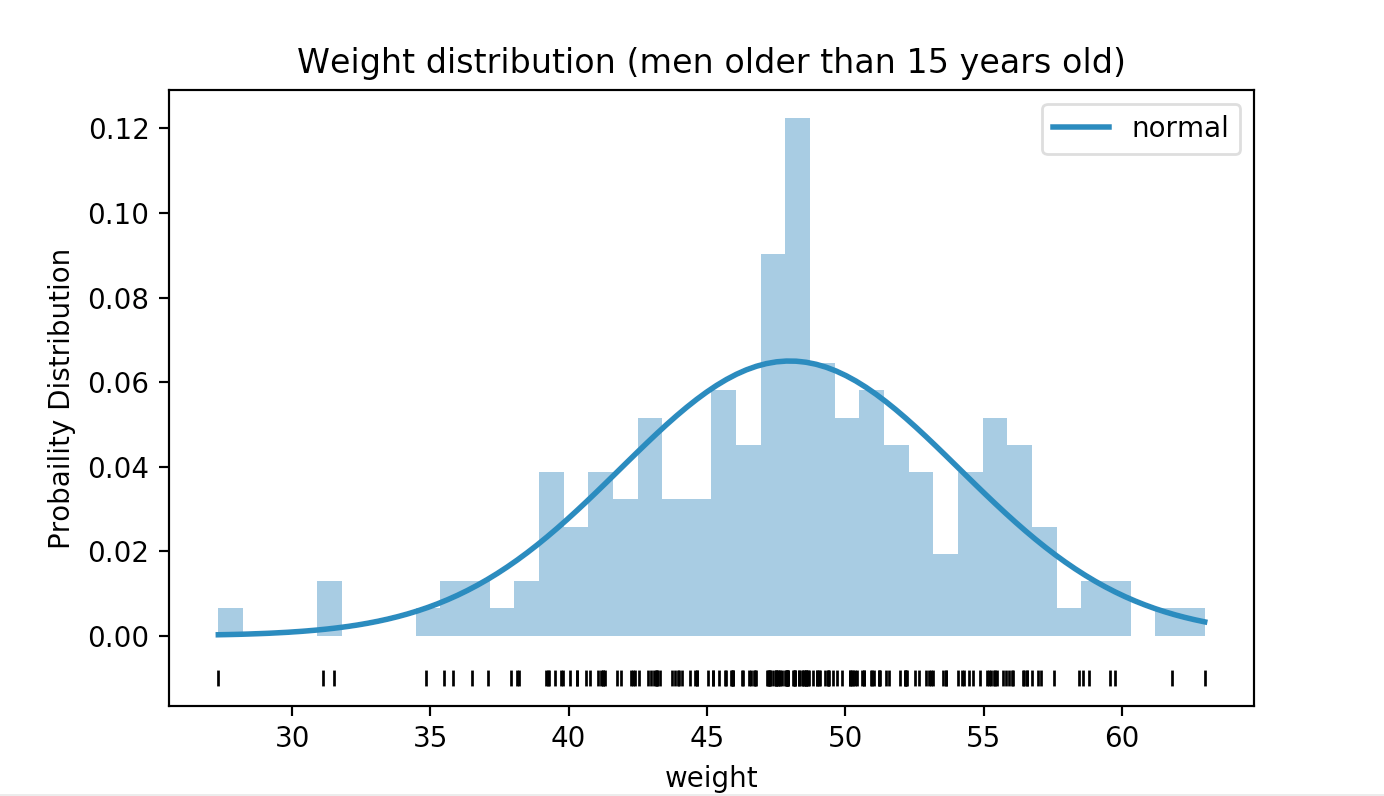
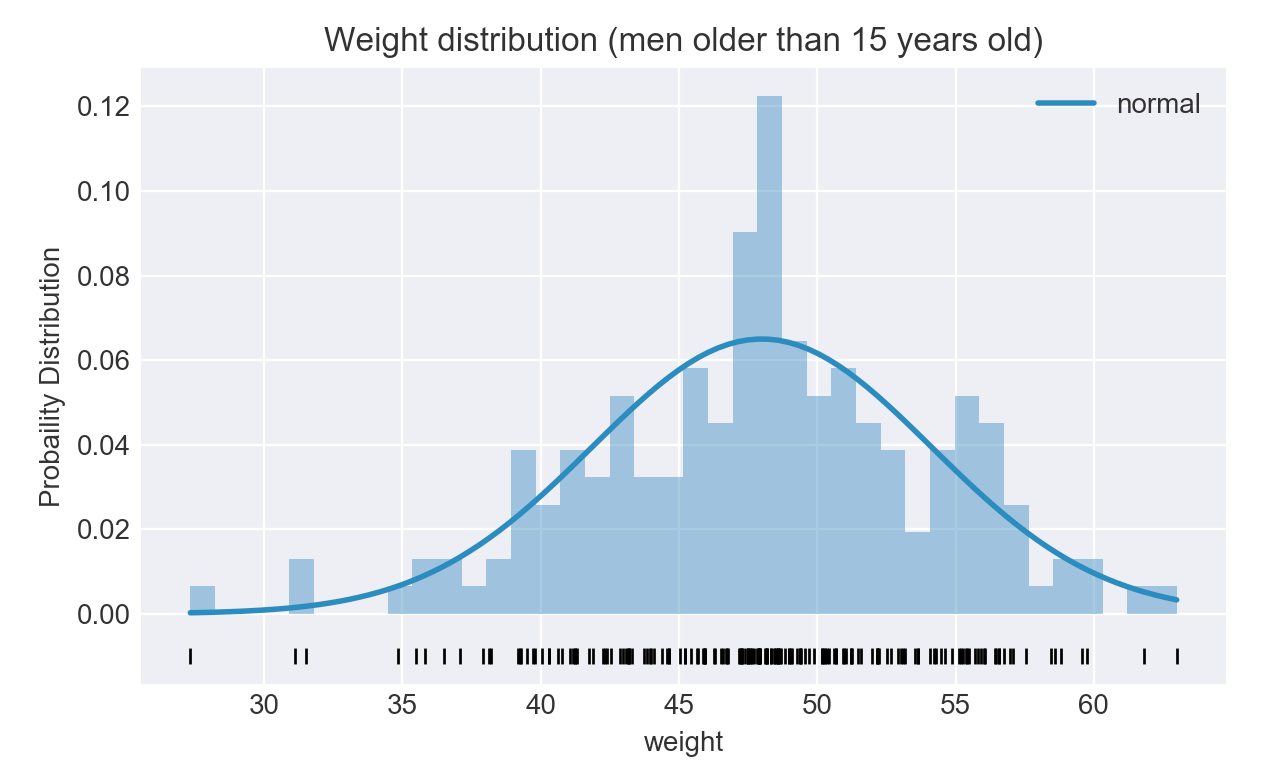
hypothesis contrast with two methods

diff --git a/main.py b/main.py
@@ -8,7 +8,7 @@ from matplotlib import style
 import statsmodels.api as sm
 from scipy import stats
 
-#plt.style.use('ggplot')
+plt.style.use('seaborn-darkgrid')
 
 #import warnings
 #warnings.filterwarnings('ignore')
@@ -36,7 +36,7 @@ filtered_data = filtered_data[(filtered_data.age > 15) & filtered_data.male == 1
 data = filtered_data['weight']
 print(data)
 
-### Graphical representation of data
+### Graphical representations of data
 #
 # we fit mean and variance to the data
 mu, sigma = stats.norm.fit(data)
@@ -57,9 +57,29 @@ ax.set_ylabel('Probaility Distribution')
 ax.legend()
 plt.show()
 
+# using a boxplot
+fig, ax = plt.subplots(figsize=(7,4))
+ax.set_title('Weight distribution (men older than 15 years old)')
+ax.boxplot(data)
+plt.show()
+
 ### Using Q-Q plot
 fig, ax = plt.subplots(figsize=(7,4))
 sm.qqplot(data,fit=True,line='q',alpha=0.4,lw=2,ax=ax)
 ax.set_title('Q-Q plot of weights of men older than 15 years old')
 ax.tick_params(labelsize=7)
 plt.show()
+
+## Analytical methods
+# Kurtosis analysis
+print('Kurtosis: %s' % stats.kurtosis(data))
+# Skewness
+print('Skewness: %s' % stats.skew(data))
+
+## Hypothesis Contrast
+# Shapiro-Wilk test
+shapiro_test = stats.shapiro(data)
+print(shapiro_test)
+# D'Agostino's K-squared test
+k2, p_value = stats.normaltest(data)
+print('Statistic = %s, p-value= %s' % (k2,p_value))
